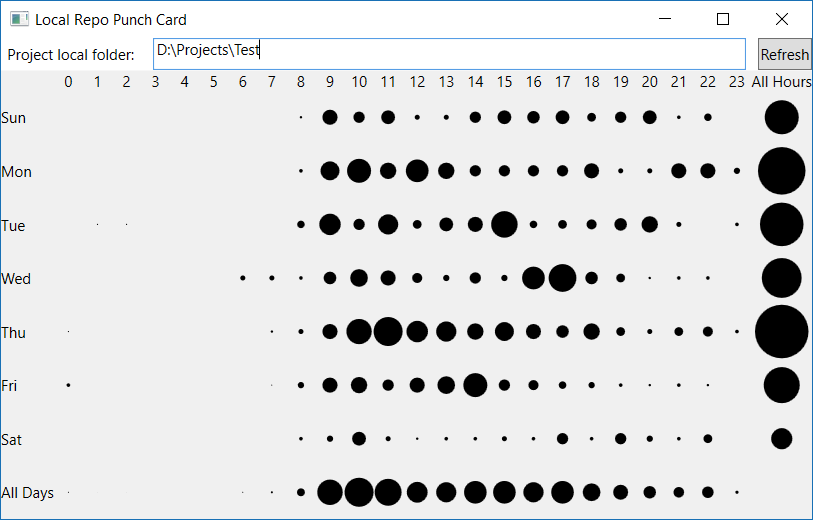
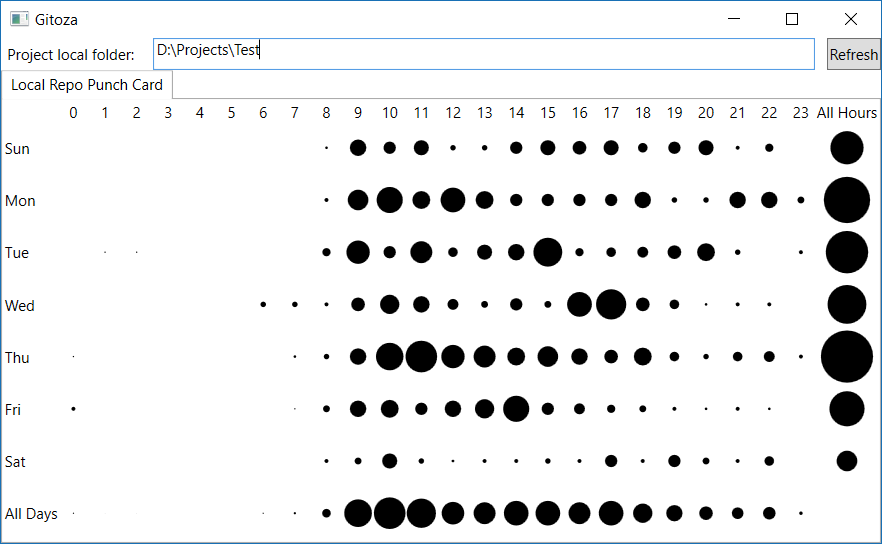
Changes in the main window.

diff --git a/src/Gitoza/MainWindow.xaml b/src/Gitoza/MainWindow.xaml
@@ -4,7 +4,7 @@
         xmlns:local="clr-namespace:Gitoza"
         xmlns:UserControls="clr-namespace:Gitoza.UserControls"
         xmlns:ViewModels="clr-namespace:Gitoza.ViewModels"
-        Title="Local Repo Punch Card" Height="350" Width="525">
+        Title="Gitoza" Height="350" Width="525">
     <Window.DataContext>
         <ViewModels:MainViewModel />
     </Window.DataContext>
@@ -23,8 +23,13 @@
             <TextBox Margin="10,0" Grid.Column="1" Text="{Binding Path=Path}"></TextBox>
             <Button Grid.Column="2" Command="{Binding Refresh}">Refresh</Button>
         </Grid>
-        <Grid Grid.Row="1" Background="{DynamicResource {x:Static SystemColors.ControlBrushKey}}">
-            <UserControls:Week />
-        </Grid>
+        <TabControl Grid.Row="1">
+            <TabItem Header="Local Repo Punch Card">
+                <UserControls:Week />
+            </TabItem>
+        </TabControl>
+        <!--<Grid  Background="{DynamicResource {x:Static SystemColors.ControlBrushKey}}">
+            
+        </Grid>-->
     </Grid>
 </Window>
